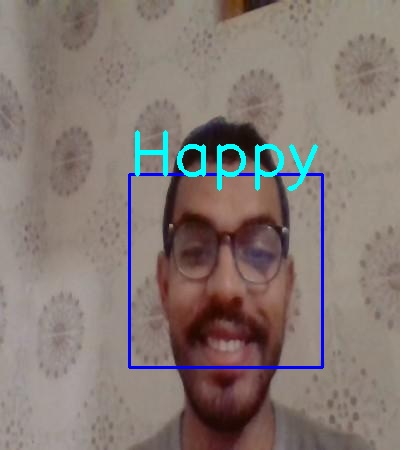
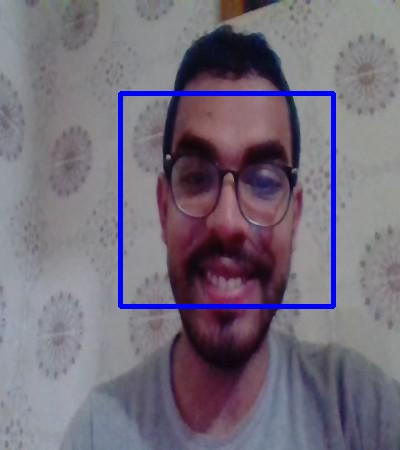
rectangle mood added 2

diff --git a/EMRS/views.py b/EMRS/views.py
@@ -80,8 +80,8 @@ def HandlePicRequest(request):
     faces = face_classifier.detectMultiScale(gray,1.3,5)
 
     for (x,y,w,h) in faces:
-        cv2.rectangle(img,(x,y),(x+w,y+h),(255,0,0),2)
-        roi_gray = gray[y:y+h,x:x+w]
+        cv2.rectangle(img,(x,y),(x+w,y+h),(255,0,0),4)
+        roi_gray = gray[y:y+h+10,x:x+w+10]
         roi_gray = cv2.resize(roi_gray,(48,48),interpolation=cv2.INTER_AREA)
 
         if np.sum([roi_gray])!=0:
@@ -97,10 +97,8 @@ def HandlePicRequest(request):
             preds = classifier.predict(roi)[0]
             label=class_labels[preds.argmax()]
             label_position = (x,y)
-            cv2.putText(img,label,label_position,cv2.FONT_HERSHEY_SIMPLEX,2,(255,255,0),3)
-            cv2.imwrite('./EMRS/static/img/face.jpg', img) # Second image
-        else:
-            cv2.putText(img,'No Face Found',(20,60),cv2.FONT_HERSHEY_SIMPLEX,2,(0,255,0),3)
+           
+        cv2.imwrite('./EMRS/static/img/face.jpg', img) # Second image
     cv2.imshow('Emotion Detector',img)
 
 
